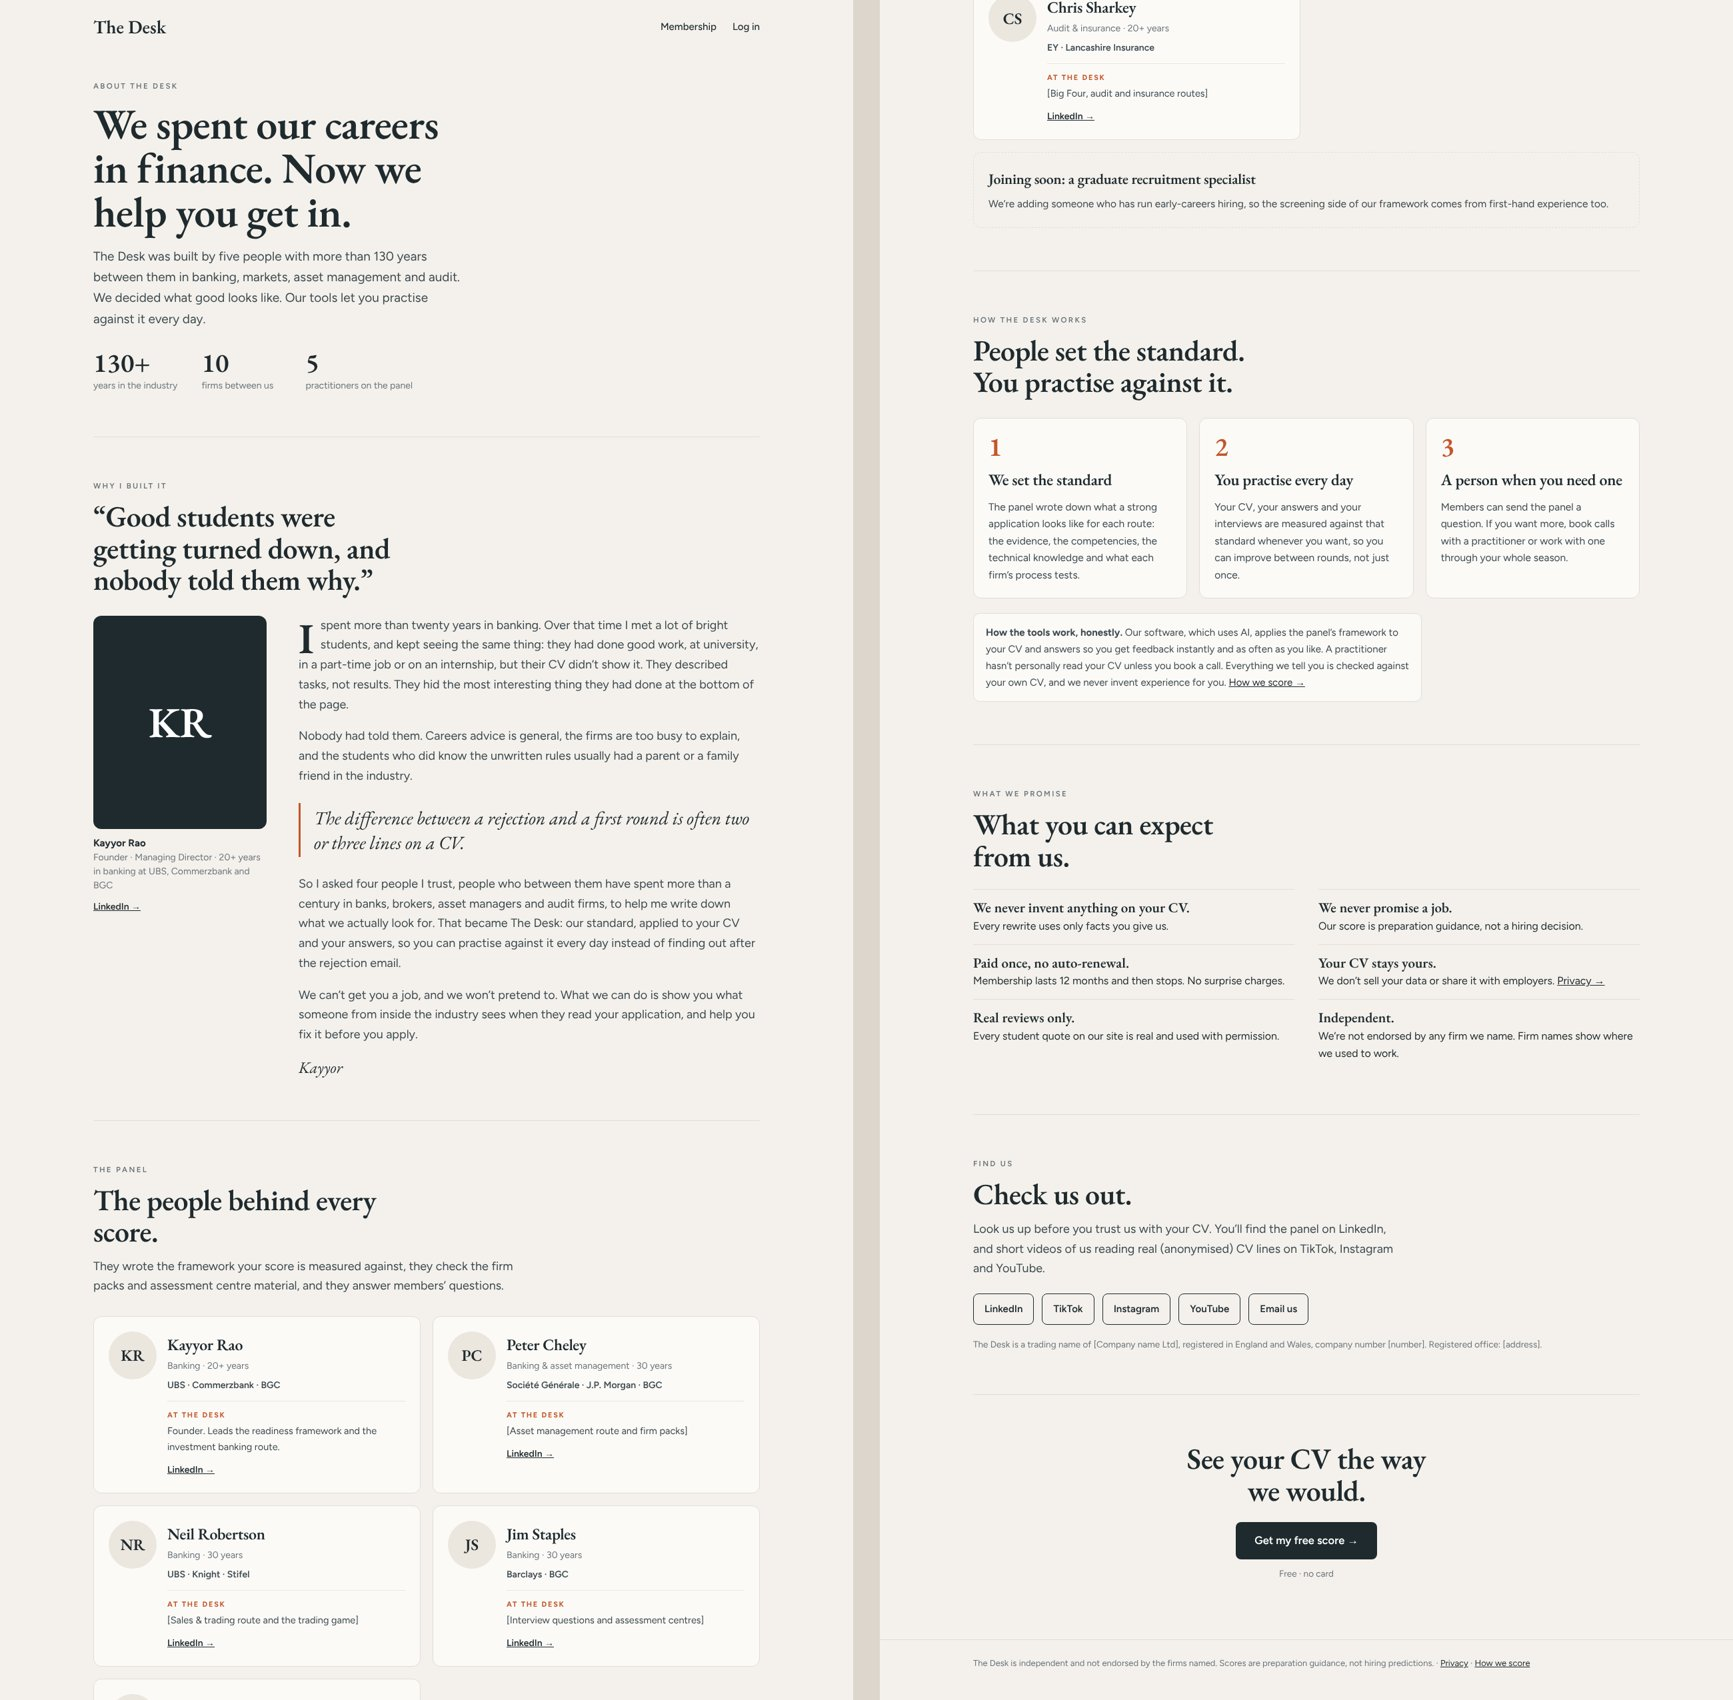
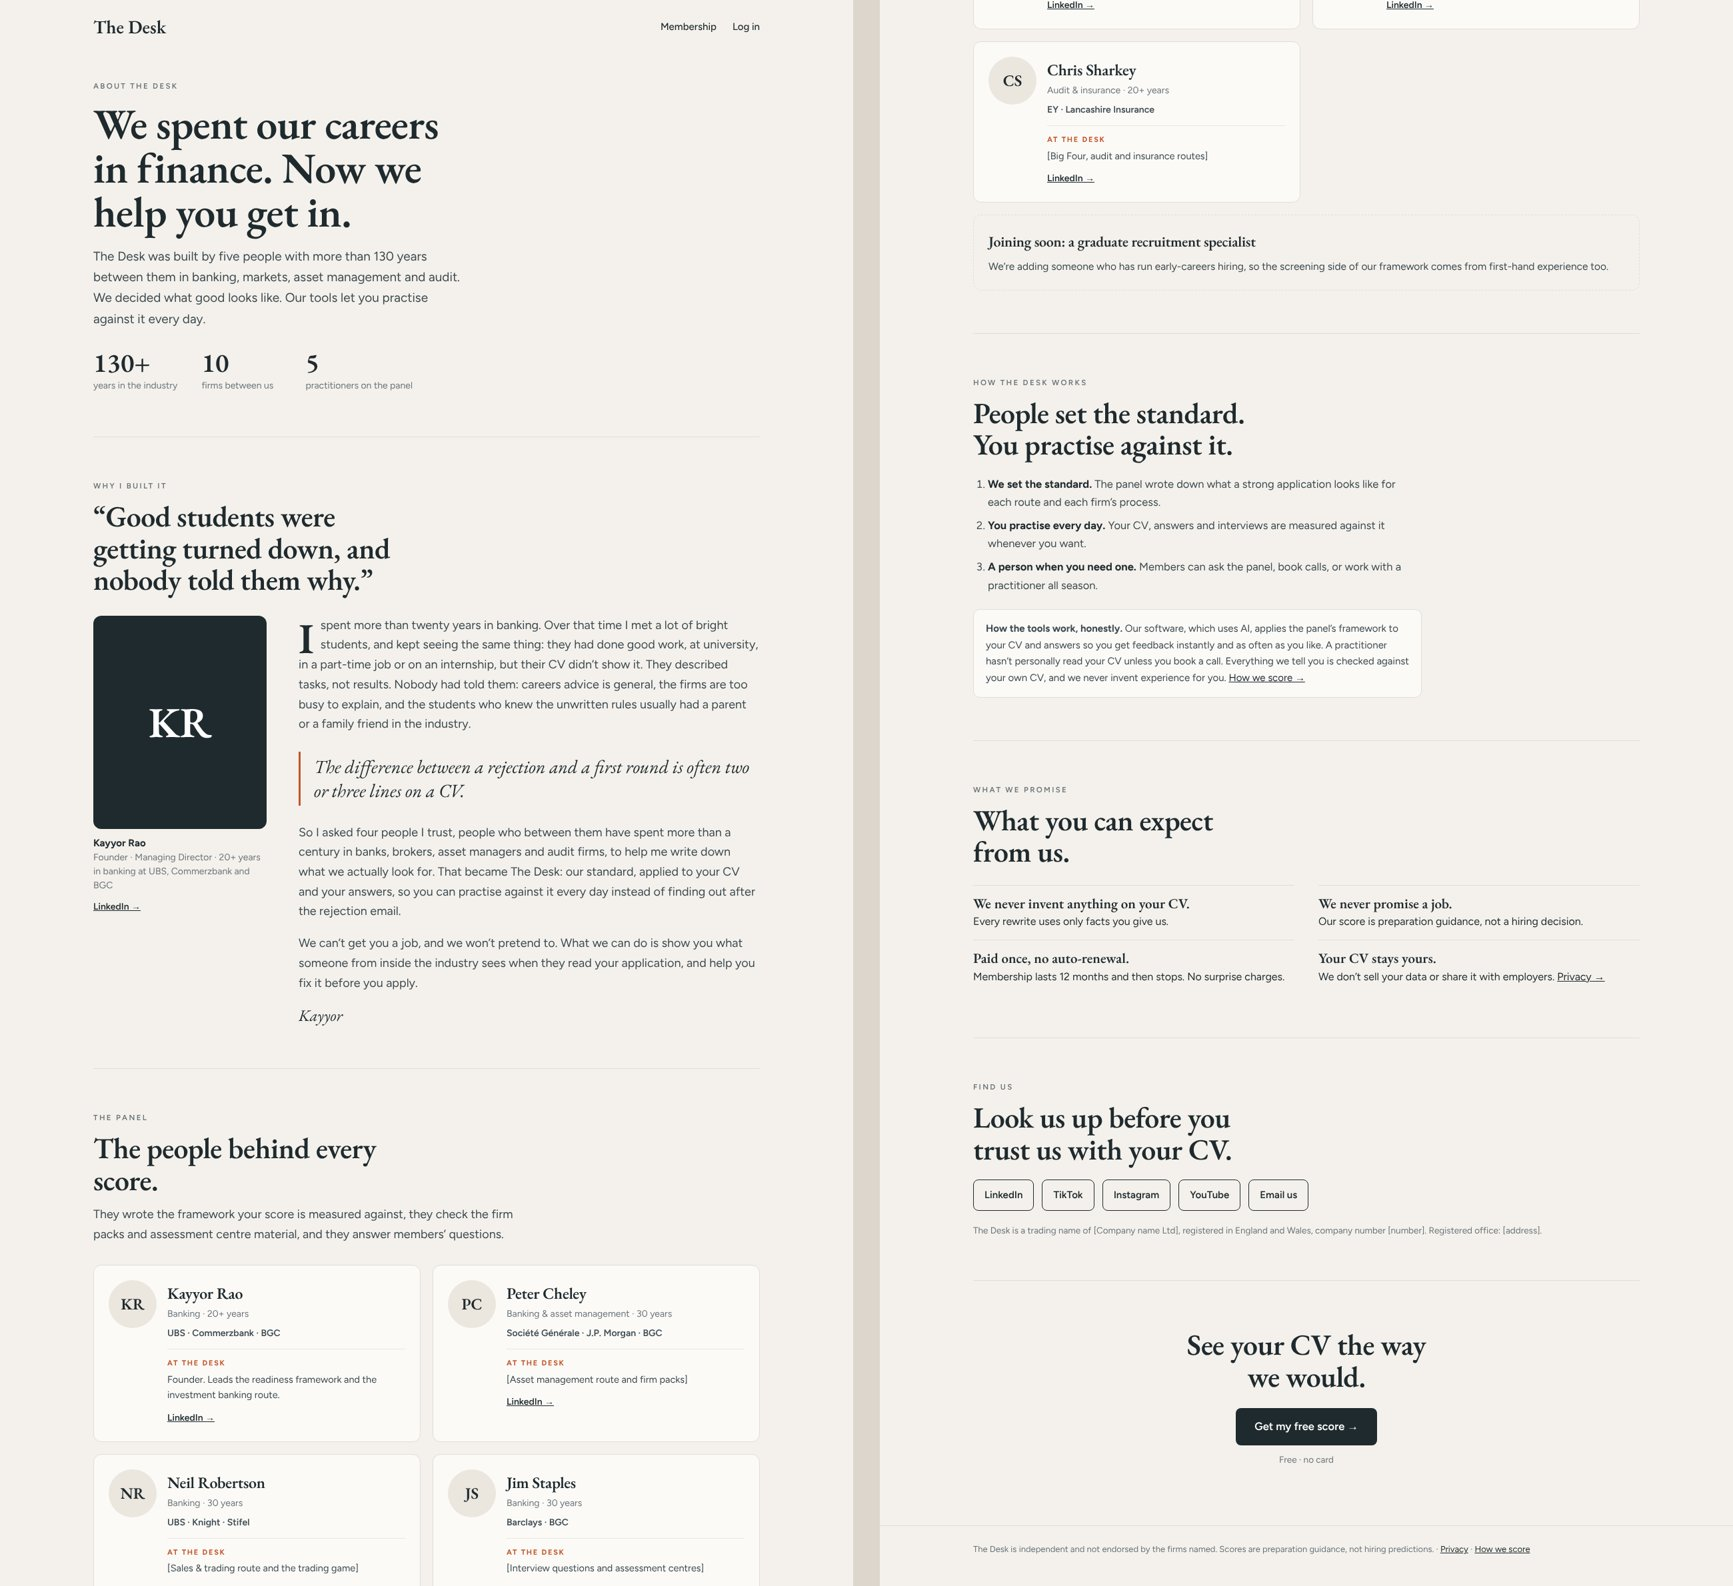
About page: trimmed (story, how it works, promises, find us, compact phone panel)
Claude-Session: https://claude.ai/code/session_014HX912Q8GYBLs9Jx181D89

diff --git a/about.html b/about.html
@@ -54,6 +54,7 @@ h2{font-size:clamp(32px,4.4vw,44px);line-height:1.08;max-width:20ch;margin-top:1
 .step .n{font:600 40px/1 "EB Garamond",Georgia,serif;color:var(--accent)}
 .step h3{font-size:24px;margin-top:10px}.step p{margin:8px 0 0;font-size:15.5px;color:var(--ink-2)}
 .honest{margin-top:22px;font-size:15px;color:var(--ink-2);max-width:70ch;background:var(--card);border:1px solid var(--line);border-radius:10px;padding:16px 18px}
+.howl{margin:22px 0 0;padding-left:22px;max-width:62ch;font-size:16.5px;color:var(--ink-2)}.howl li{margin:8px 0}.howl b{color:var(--ink)}
 /* promises */
 .promises{list-style:none;padding:0;margin:26px 0 0;display:grid;grid-template-columns:repeat(2,minmax(0,1fr));gap:0 36px}
 .promises li{padding:14px 0;border-top:1px solid var(--line);font-size:16px}
@@ -69,7 +70,7 @@ footer{border-top:1px solid var(--line);padding:24px 0 44px;font-size:13px;color
   .founder{grid-template-columns:1fr;gap:24px}.portrait,.ph{width:100%;max-width:340px;height:300px}
   .panel,.how,.promises{grid-template-columns:1fr}
 }
-@media (max-width:600px){.wrap{padding:0 16px}section{padding:48px 0}.hero h1{font-size:40px}.hero p{font-size:17px}.story p{font-size:17px}.pull{font-size:23px}}
+@media (max-width:600px){.stats{gap:18px!important;flex-wrap:nowrap}.stats div{min-width:0}.stats b{font-size:32px}.stats span{font-size:12.5px}.founder>div:first-child{display:grid;grid-template-columns:88px 1fr;gap:14px;align-items:center}.portrait,.ph{width:88px!important;height:88px!important;border-radius:50%!important;font-size:30px!important}.founder>div:first-child .li{grid-column:2;margin-top:-6px}.cap{margin-top:0}.p{background:transparent;border:0;border-top:1px solid var(--line);border-radius:0;padding:16px 0;grid-template-columns:52px minmax(0,1fr);gap:12px}.av{width:52px;height:52px;font-size:19px}.p h3{font-size:21px}.looks{border-top:0;padding-top:0;margin-top:6px}.looks b{display:inline;margin-right:6px}.panel{gap:0}.hiring{border-top:1px dashed var(--line)!important}.stats{gap:24px}.wrap{padding:0 16px}section{padding:48px 0}.hero h1{font-size:40px}.hero p{font-size:17px}.story p{font-size:17px}.pull{font-size:23px}}
 </style>
 </head>
 <body>
@@ -97,8 +98,7 @@ footer{border-top:1px solid var(--line);padding:24px 0 44px;font-size:13px;color
         <a class="li" href="#">LinkedIn →</a>
       </div>
       <div class="story">
-        <p>I spent more than twenty years in banking. Over that time I met a lot of bright students, and kept seeing the same thing: they had done good work, at university, in a part-time job or on an internship, but their CV didn’t show it. They described tasks, not results. They hid the most interesting thing they had done at the bottom of the page.</p>
-        <p>Nobody had told them. Careers advice is general, the firms are too busy to explain, and the students who did know the unwritten rules usually had a parent or a family friend in the industry.</p>
+        <p>I spent more than twenty years in banking. Over that time I met a lot of bright students, and kept seeing the same thing: they had done good work, at university, in a part-time job or on an internship, but their CV didn’t show it. They described tasks, not results. Nobody had told them: careers advice is general, the firms are too busy to explain, and the students who knew the unwritten rules usually had a parent or a family friend in the industry.</p>
         <div class="pull">The difference between a rejection and a first round is often two or three lines on a CV.</div>
         <p>So I asked four people I trust, people who between them have spent more than a century in banks, brokers, asset managers and audit firms, to help me write down what we actually look for. That became The Desk: our standard, applied to your CV and your answers, so you can practise against it every day instead of finding out after the rejection email.</p>
         <p>We can’t get you a job, and we won’t pretend to. What we can do is show you what someone from inside the industry sees when they read your application, and help you fix it before you apply.</p>
@@ -124,11 +124,11 @@ footer{border-top:1px solid var(--line);padding:24px 0 44px;font-size:13px;color
   <section aria-labelledby="hw">
     <div class="k">How The Desk works</div>
     <h2 id="hw">People set the standard. You practise against it.</h2>
-    <div class="how">
-      <div class="step"><div class="n">1</div><h3>We set the standard</h3><p>The panel wrote down what a strong application looks like for each route: the evidence, the competencies, the technical knowledge and what each firm’s process tests.</p></div>
-      <div class="step"><div class="n">2</div><h3>You practise every day</h3><p>Your CV, your answers and your interviews are measured against that standard whenever you want, so you can improve between rounds, not just once.</p></div>
-      <div class="step"><div class="n">3</div><h3>A person when you need one</h3><p>Members can send the panel a question. If you want more, book calls with a practitioner or work with one through your whole season.</p></div>
-    </div>
+    <ol class="howl">
+      <li><b>We set the standard.</b> The panel wrote down what a strong application looks like for each route and each firm’s process.</li>
+      <li><b>You practise every day.</b> Your CV, answers and interviews are measured against it whenever you want.</li>
+      <li><b>A person when you need one.</b> Members can ask the panel, book calls, or work with a practitioner all season.</li>
+    </ol>
     <div class="honest"><b>How the tools work, honestly.</b> Our software, which uses AI, applies the panel’s framework to your CV and answers so you get feedback instantly and as often as you like. A practitioner hasn’t personally read your CV unless you book a call. Everything we tell you is checked against your own CV, and we never invent experience for you. <a href="/how-we-score.html">How we score →</a></div>
   </section>
 
@@ -140,15 +140,12 @@ footer{border-top:1px solid var(--line);padding:24px 0 44px;font-size:13px;color
       <li><b>We never promise a job.</b>Our score is preparation guidance, not a hiring decision.</li>
       <li><b>Paid once, no auto-renewal.</b>Membership lasts 12 months and then stops. No surprise charges.</li>
       <li><b>Your CV stays yours.</b>We don’t sell your data or share it with employers. <a href="/site-privacy.html">Privacy →</a></li>
-      <li><b>Real reviews only.</b>Every student quote on our site is real and used with permission.</li>
-      <li><b>Independent.</b>We’re not endorsed by any firm we name. Firm names show where we used to work.</li>
     </ul>
   </section>
 
   <section aria-labelledby="fu">
     <div class="k">Find us</div>
-    <h2 id="fu">Check us out.</h2>
-    <p class="lead">Look us up before you trust us with your CV. You’ll find the panel on LinkedIn, and short videos of us reading real (anonymised) CV lines on TikTok, Instagram and YouTube.</p>
+    <h2 id="fu">Look us up before you trust us with your CV.</h2>
     <div class="find"><a href="#">LinkedIn</a><a href="#">TikTok</a><a href="#">Instagram</a><a href="#">YouTube</a><a href="mailto:[contact email]">Email us</a></div>
     <p style="font-size:13.5px;color:var(--mute);margin:18px 0 0">The Desk is a trading name of [Company name Ltd], registered in England and Wales, company number [number]. Registered office: [address].</p>
   </section>
